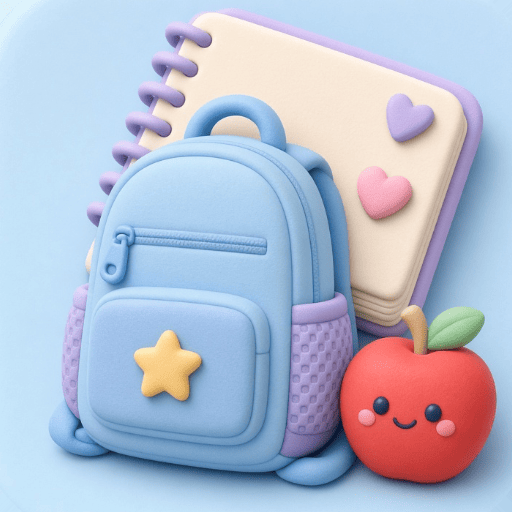
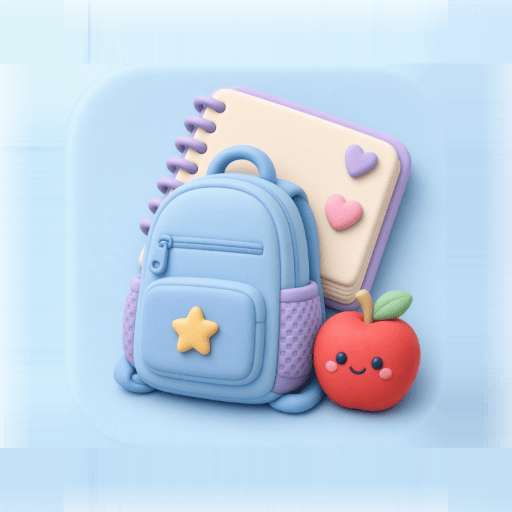
아이콘 크기를 맞추고 금요일에도 브라우저 검사가 통과하게 합니다
maskable은 같은 도안을 0.75배로 줄여 원 안에 두고, 32px favicon과 180px apple-touch-icon을 연결합니다. 서비스 워커 캐시를 올리고, 예시 현장체험이 이번 주를 벗어나지 않게 합니다.

diff --git a/index.html b/index.html
@@ -10,8 +10,9 @@
     <meta name="apple-mobile-web-app-title" content="쓱 교무수첩">
     <title>쓱 교무수첩</title>
     <link rel="manifest" href="./manifest.webmanifest">
-    <link rel="icon" href="./icon-192.png">
-    <link rel="apple-touch-icon" href="./icon-192.png">
+    <link rel="icon" href="./favicon-32.png" sizes="32x32" type="image/png">
+    <link rel="icon" href="./icon-192.png" sizes="192x192" type="image/png">
+    <link rel="apple-touch-icon" href="./apple-touch-icon.png" sizes="180x180">
     <link rel="stylesheet" href="./fonts/fonts.css">
     <script>
         try {

diff --git a/public/sw.js b/public/sw.js
@@ -1,7 +1,7 @@
 /* 설치한 앱이 같은 주소의 sw.js 를 받아 갈아타도록 파일 이름을 유지합니다.
    프리캐시 목록은 빌드가 dist/precache-manifest.js 로 넣습니다.
    로컬 저장은 지우지 않습니다. */
-const CACHE = 'ssug-gyomu-shell-v1';
+const CACHE = 'ssug-gyomu-shell-v2';
 const SCOPE_URL = new URL('./', self.location);
 
 importScripts('./precache-manifest.js');
